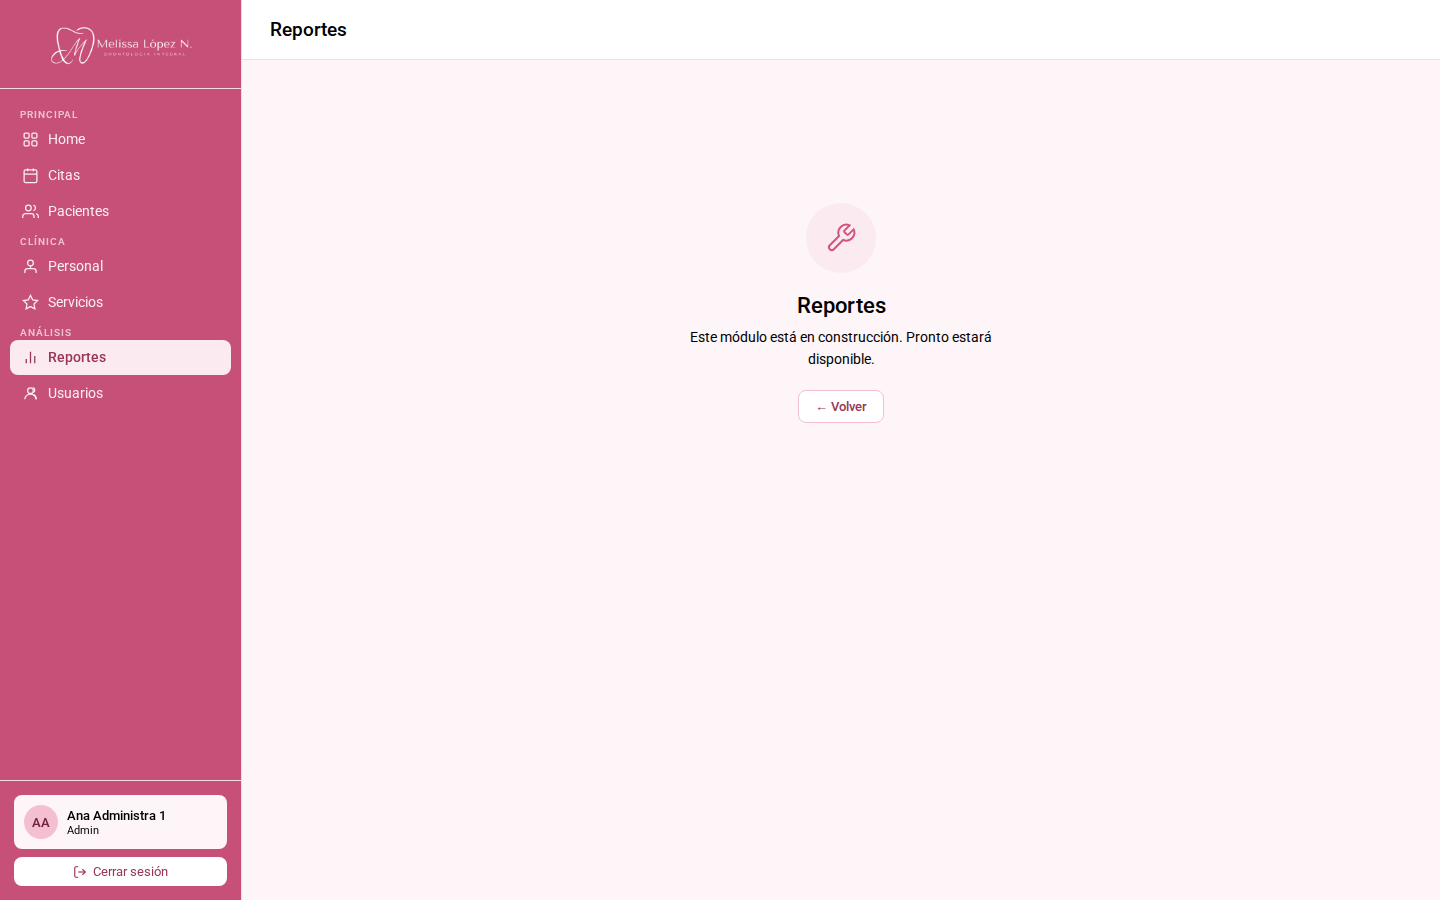
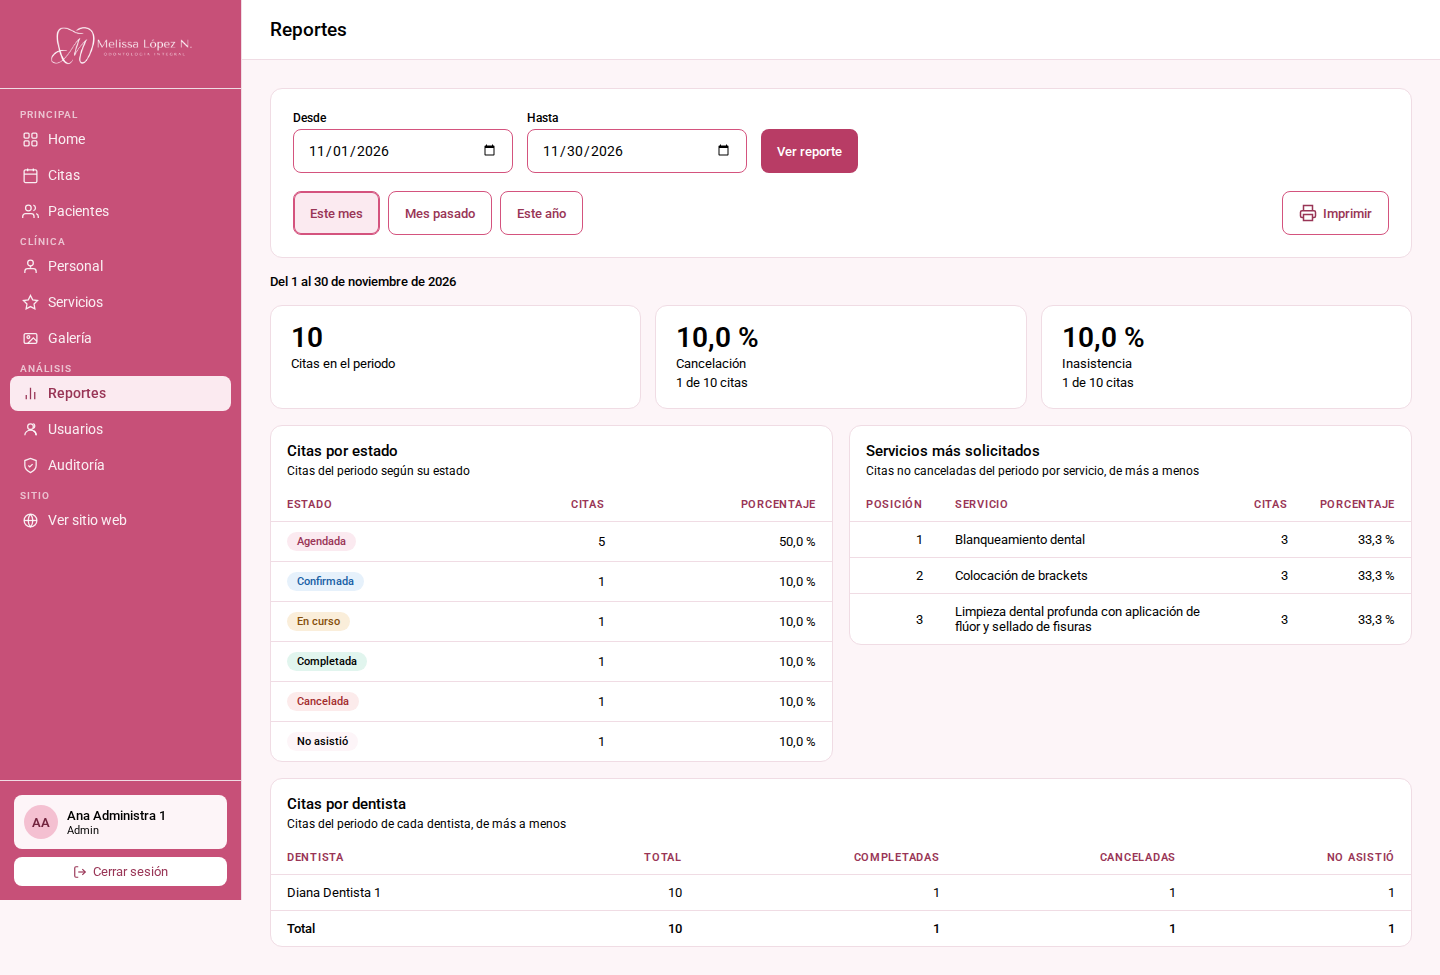
test(047): T027 «Reportes» en capturar.mjs --medir y capturas rehechas
«Reportes» entra en las pantallas incluidas de --medir y gana la comprobación
de la primera pantalla (320×568 y 390×844). El recorte estado-vacio pasa a un
periodo sin citas. Ajustes de reportes.css vistos en el navegador (T025): el
botón «Ver reporte» en su columna, bordes de fila iguales y etiquetas de las
tarjetas con ancho para «Completadas».

Cubre: CA1
Tareas: docs/specs/047-reportes-admin/tasks.md

diff --git a/public/css/reportes.css b/public/css/reportes.css
@@ -25,7 +25,7 @@
 }
 /* Etiqueta, campo y error comparten filas entre los dos campos: el botón queda a la altura del campo. */
 .reporte-campo { display: grid; grid-row: span 3; grid-template-rows: subgrid; min-width: 0; }
-.reporte-formulario .btn { grid-row: 2; }
+.reporte-formulario .btn { grid-row: 2; grid-column: 3; }
 .reporte-error { font-size: var(--text-meta); font-weight: var(--weight-strong); color: var(--red); }
 .reporte-campo-con-error .field, .reporte-campo-con-error .field:focus { border: var(--border-width-strong) solid var(--red); }
 .reporte-barra { display: flex; flex-wrap: wrap; align-items: center; justify-content: space-between; gap: var(--space-3); margin-top: var(--space-5); }
@@ -71,8 +71,8 @@
 /* ── Como tabla: desde 900 px y en el papel ── */
 @media (min-width: 900px), print {
     .reporte-tabla th, .reporte-tabla td { padding: var(--space-4) var(--space-6); }
-    .reporte-tabla tbody th { border-bottom: var(--border-width) solid var(--border); }
-    .reporte-tabla tbody tr:last-child th { border-bottom: 0; }
+    .reporte-tabla tbody th, .reporte-tabla tbody td { border-bottom: var(--border-width) solid var(--border); }
+    .reporte-tabla tbody tr:last-child th, .reporte-tabla tbody tr:last-child td { border-bottom: 0; }
     .reporte-tabla tbody tr:hover th { background: var(--p50); }
     .reporte-tabla .cifra { text-align: right; white-space: nowrap; }
     .reporte-tabla tfoot th, .reporte-tabla tfoot td { border-top: var(--border-width) solid var(--border); border-bottom: 0; }
@@ -96,6 +96,8 @@
         grid-column: 1 / -1; order: -1; padding: 0 0 var(--space-1); border: 0;
         font-size: var(--text-body); font-weight: var(--weight-strong); text-align: start;
     }
+    /* «Completadas» y «Porcentaje» no caben en la columna de etiquetas de la 034. */
+    .reporte-tabla td { grid-template-columns: calc(var(--tarjeta-etiqueta-w) * 1.5) minmax(0, 1fr); }
     .reporte-tabla tfoot { display: block; background: var(--bg); padding: 0 var(--space-5) var(--space-5); }
 }
 @media screen and (max-width: 419px) {

diff --git a/docs/specs/047-reportes-admin/tasks.md b/docs/specs/047-reportes-admin/tasks.md
@@ -70,7 +70,8 @@ Contra `plan.md` (constitución 1.3.0). Lo que el desglose podría romper:
   - nota: `ReportesVistasTest` pasa completo (15 casos). Caso que la spec no fija: con citas en el periodo pero todas canceladas, «Servicios más solicitados» dice «Todas las citas del periodo están canceladas.» en lugar de una tabla vacía (a confirmar con el usuario)
 - [ ] T025 Crear `reportes.css` (pantalla y `@media print`) solo con tokens y cargarlo en la vista con `@push('styles')`: por debajo de 900 px, la frase del periodo y «Citas en el periodo» antes del filtro (sin cambiar el orden del HTML) y el `tfoot` como última tarjeta «Total» — `public/css/reportes.css`, `resources/views/reportes/index.blade.php` — hecho cuando: T014 pasa · verificación manual: el usuario valida la pantalla con datos, vacía y con error a 320, 390 y 1440 px contra `design.md`, y la vista previa de impresión del navegador a tamaño carta (sin menú ni controles, legible en blanco y negro, ninguna fila cortada) — cubre: CA1, CA8 — depende: T014, T024
 - [ ] T026 Añadir el botón «Imprimir» (nace `hidden`) y `reportes.js` con `defer`, que lo muestra y llama a `window.print()` — `public/js/reportes.js`, `resources/views/reportes/index.blade.php` — hecho cuando: el HTML lleva el botón oculto y el script enlazado, sin `onclick` ni script en línea nuevos, y T013 y T014 siguen pasando · verificación manual: el usuario pulsa «Imprimir» y se abre el diálogo de impresión — cubre: CA8 — depende: T025
-- [ ] T027 Actualizar el guion de capturas (`estado-vacio` pasa a `/admin/reportes?desde=2000-01-01&hasta=2000-01-31`; «Reportes» entra en las pantallas incluidas de `--medir`, con todas sus comprobaciones, y gana una propia: a 320×568 y 390×844, la frase del periodo y «Citas en el periodo» dentro de la primera pantalla) y ejecutarlo — `docs/design/capturar.mjs`, `docs/design/capturas/ (generado por node docs/design/capturar.mjs)` — hecho cuando: `node docs/design/capturar.mjs --medir` sale con código 0, con «Reportes» sin desbordes, recortes, solapes ni objetivos de toque pequeños, sus tres tablas como tarjetas y la comprobación de la primera pantalla en verde, y las capturas `admin-reportes` y `estado-vacio` están rehechas — cubre: CA1 — depende: T026
+- [x] T027 Actualizar el guion de capturas (`estado-vacio` pasa a `/admin/reportes?desde=2000-01-01&hasta=2000-01-31`; «Reportes» entra en las pantallas incluidas de `--medir`, con todas sus comprobaciones, y gana una propia: a 320×568 y 390×844, la frase del periodo y «Citas en el periodo» dentro de la primera pantalla) y ejecutarlo — `docs/design/capturar.mjs`, `docs/design/capturas/ (generado por node docs/design/capturar.mjs)` — hecho cuando: `node docs/design/capturar.mjs --medir` sale con código 0, con «Reportes» sin desbordes, recortes, solapes ni objetivos de toque pequeños, sus tres tablas como tarjetas y la comprobación de la primera pantalla en verde, y las capturas `admin-reportes` y `estado-vacio` están rehechas — cubre: CA1 — depende: T026
+  - nota: 2026-11-11: `node capturar.mjs --medir` sale con código 0 («medir: todo en orden») contra este clon en `:8001`, con la base de prueba `dentissa_capturas` rehecha (pasos 1–4 de la cabecera) y la línea base de v0.16.0 (72 capturas). «Reportes» va en `PANTALLAS_047`, fuera de la línea base; la comprobación de la primera pantalla fija la ventana a 320×568 y 390×844. `admin-reportes` (390 y 1440) y el recorte `estado-vacio` rehechos; el resto de la galería no se toca
 - [ ] T028 Verificación final: suite completa, `--group=rnf` de la 047, Pint, `semgrep` y `gitleaks` sobre lo tocado — sin archivos — hecho cuando: `php artisan test` pasa completo, `php artisan test --group=rnf --filter=ReportesRendimientoTest` pasa (se anota el tiempo), `vendor/bin/pint --test` limpio sobre los archivos tocados y los dos escáneres sin hallazgos (la salida de `semgrep` sobre `ReporteCitas` se revisa: la expresión `COUNT(*)` es constante; ninguna supresión sin motivo) — depende: T015, T027
 
 ## Integración y documentación
